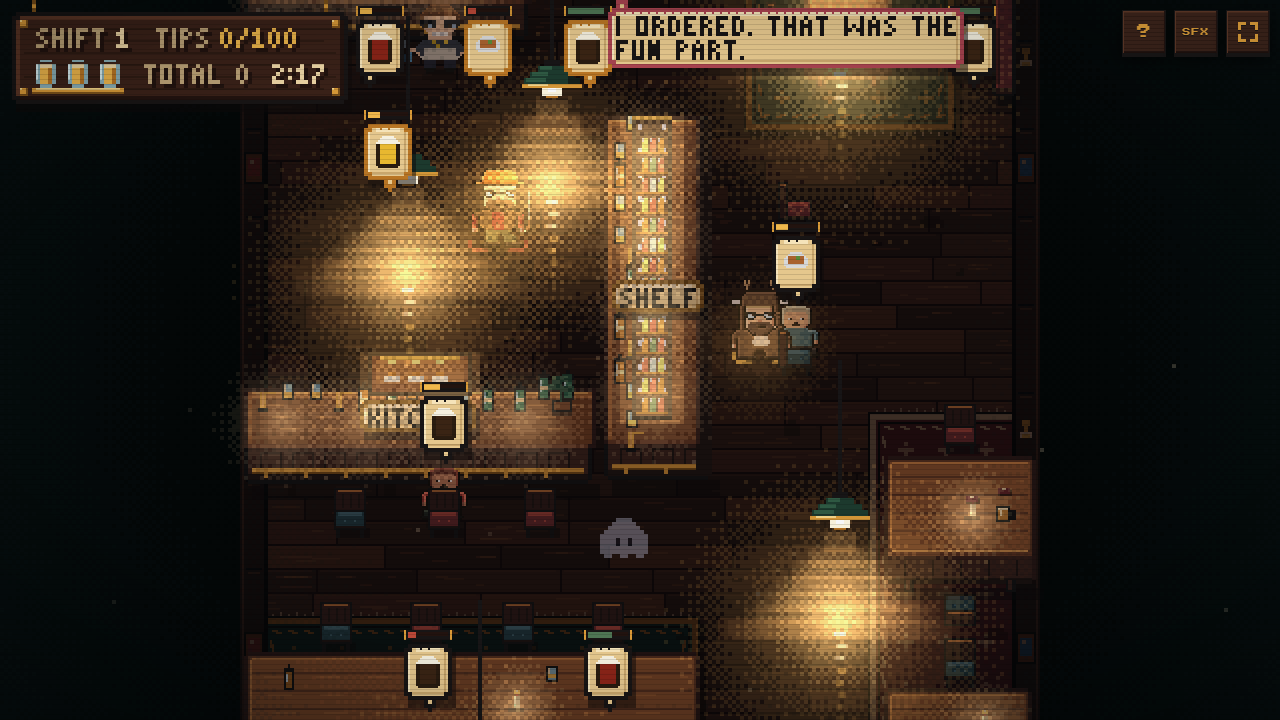
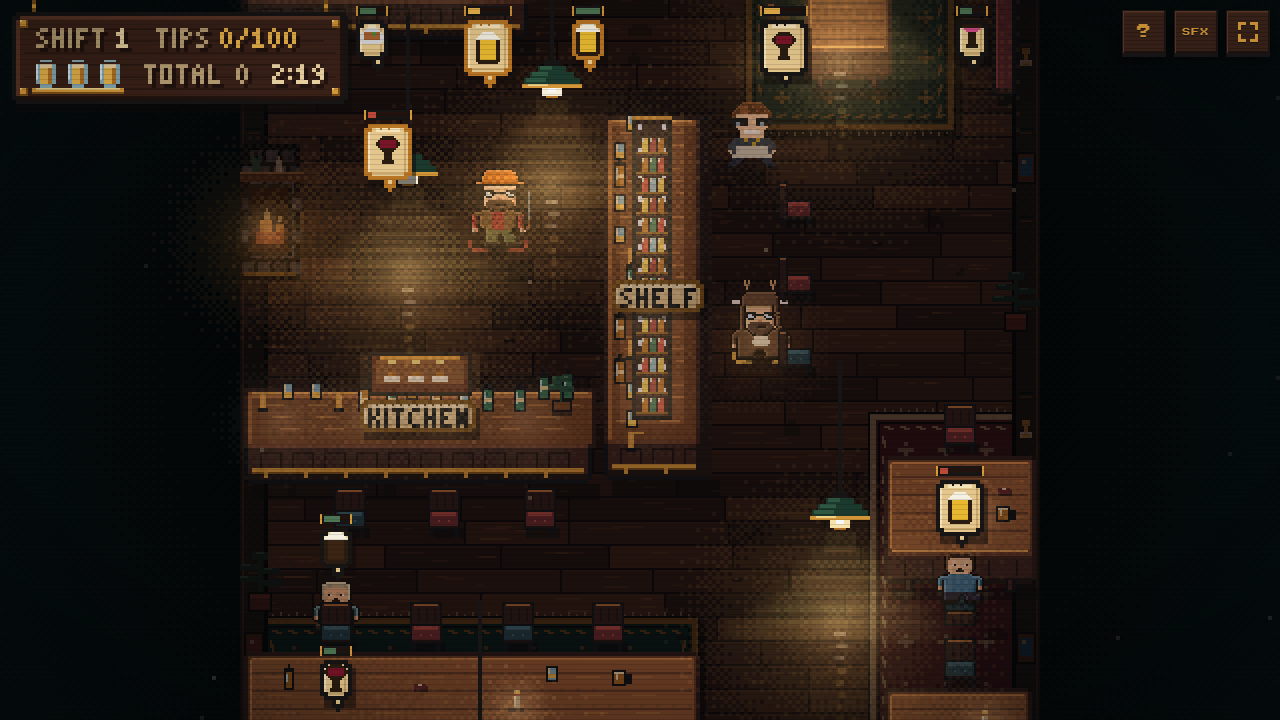
fix: tone every light layer down so the room reads as night, not glare
Claude-Session: https://claude.ai/code/session_01QtnAqeEh7ToxbAzhWcUX8e

diff --git a/game.js b/game.js
@@ -3505,8 +3505,8 @@ function drawFloorLight(camX, camY) {
     const k = lampIntensity(lamp);
     // A wide soft pool, then a hot core: the reference's lamps have a bright
     // disc directly under the shade and a long soft skirt.
-    drawGlow(glowFor(lamp.r, WARM_RGB, 0.55), lamp.x, lamp.y, k, camX, camY);
-    drawGlow(glowFor(Math.round(lamp.r * 0.45), HOT_RGB, 0.5), lamp.x, lamp.y - 2, k, camX, camY);
+    drawGlow(glowFor(lamp.r, WARM_RGB, 0.26), lamp.x, lamp.y, k, camX, camY);
+    drawGlow(glowFor(Math.round(lamp.r * 0.4), HOT_RGB, 0.16), lamp.x, lamp.y - 2, k, camX, camY);
     // Varnish reflection: a long broken streak straight under the bulb, the
     // way the boards throw a lamp back in the reference.
     const sx = Math.round((lamp.x - camX) * 2) / 2;
@@ -3515,7 +3515,7 @@ function drawFloorLight(camX, camY) {
     for (let i = 0; i < 9; i++) {
       const ry = sy + 2 + i * 3;
       const rw = Math.max(0.5, 3 - i * 0.28);
-      ctx.globalAlpha = (0.42 - i * 0.04) * k;
+      ctx.globalAlpha = (0.2 - i * 0.02) * k;
       ctx.fillStyle = i < 3 ? '#fff4d6' : PUB.amber;
       ctx.fillRect(sx - rw / 2 + ((i & 1) ? 0.5 : 0), ry, rw, i < 3 ? 1 : 1.5);
     }
@@ -3531,27 +3531,27 @@ function drawFloorLight(camX, camY) {
     for (let p = 10; p < length - 4; p += 20) {
       const gx = horizontal ? c.x + p : c.x + c.w / 2 - 2;
       const gy = horizontal ? c.y + c.h / 2 - 4 : c.y + p;
-      drawGlow(glowFor(18, HOT_RGB, 0.16), gx, gy, 0.8, camX, camY);
+      drawGlow(glowFor(18, HOT_RGB, 0.07), gx, gy, 0.8, camX, camY);
     }
   }
   for (const table of TABLES) {
     const items = DECOR.clutter.get(table) || [];
     for (const item of items) {
       if (item.kind !== 'candle') continue;
-      drawGlow(glowFor(13, HOT_RGB, 0.5), table.x + item.ox, table.y + item.oy, 0.9, camX, camY);
+      drawGlow(glowFor(11, HOT_RGB, 0.24), table.x + item.ox, table.y + item.oy, 0.9, camX, camY);
     }
   }
   for (const w of DECOR.windows) {
-    drawGlow(glowFor(26, COOL_RGB, 0.22), w.x + w.w / 2, 8, 1, camX, camY);
+    drawGlow(glowFor(26, COOL_RGB, 0.14), w.x + w.w / 2, 8, 1, camX, camY);
   }
   // The fire: an orange pool that breathes, plus a hotter core in the hearth.
   const fire = prefersReducedMotion ? 1 : 0.86 + Math.sin(gameTime * 9.3) * 0.08 + Math.sin(gameTime * 23.7) * 0.06;
-  drawGlow(glowFor(34, FIRE_RGB, 0.5), FIREPLACE.x + 8, FIREPLACE.y + 24, fire, camX, camY);
-  drawGlow(glowFor(12, HOT_RGB, 0.5), FIREPLACE.x + 7, FIREPLACE.y + 21, fire, camX, camY);
+  drawGlow(glowFor(30, FIRE_RGB, 0.26), FIREPLACE.x + 8, FIREPLACE.y + 24, fire, camX, camY);
+  drawGlow(glowFor(10, HOT_RGB, 0.24), FIREPLACE.x + 7, FIREPLACE.y + 21, fire, camX, camY);
   // Readability halos on the two leads, dim enough to be separation rather
   // than a spotlight, so they read even when a route runs between pools.
-  drawGlow(glowFor(22, WARM_RGB, 0.3), player.x, player.y - 4, 1, camX, camY);
-  if (hunterState !== 'arriving') drawGlow(glowFor(20, WARM_RGB, 0.22), hunter.x, hunter.y - 4, 1, camX, camY);
+  drawGlow(glowFor(20, WARM_RGB, 0.14), player.x, player.y - 4, 1, camX, camY);
+  if (hunterState !== 'arriving') drawGlow(glowFor(18, WARM_RGB, 0.1), hunter.x, hunter.y - 4, 1, camX, camY);
   // The door brightens while someone is coming in or going out.
   let doorBusy = 0;
   for (const c of customers) {
@@ -3559,7 +3559,7 @@ function drawFloorLight(camX, camY) {
     const d = Math.hypot(c.x - DOOR.x, c.y - DOOR.y);
     if (d < 40) doorBusy = Math.max(doorBusy, 1 - d / 40);
   }
-  drawGlow(glowFor(26, COOL_RGB, 0.2), DOOR.x, WORLD_H - 8, 0.55 + doorBusy * 0.8, camX, camY);
+  drawGlow(glowFor(26, COOL_RGB, 0.12), DOOR.x, WORLD_H - 8, 0.55 + doorBusy * 0.8, camX, camY);
 }
 
 // A soft additive rectangle (stepped edges, no gradient) for counter tops.
@@ -3581,7 +3581,7 @@ function drawGlowRect(x, y, w, h, alpha) {
 // black between lamps, while furniture and people take only the second,
 // lighter step and stay readable in the dark.
 const DARK_FLOOR = '#6a6066';
-const DARK_SCENE = '#a49a9e';
+const DARK_SCENE = '#aea3a6';
 function drawDarkness(colour) {
   ctx.globalCompositeOperation = 'multiply';
   ctx.fillStyle = colour;
@@ -3728,10 +3728,10 @@ function drawBottleGantry(x, y, topW, topH) {
   }
   // A small lamp on the gantry throws light down the bottles.
   ctx.globalCompositeOperation = 'lighter';
-  ctx.globalAlpha = 0.22;
+  ctx.globalAlpha = 0.09;
   ctx.fillStyle = 'rgb(255,200,110)';
   ctx.fillRect(gx - 4, gy - 6, 16, gh + 8);
-  ctx.globalAlpha = 0.18;
+  ctx.globalAlpha = 0.07;
   ctx.fillRect(gx - 1, gy - 4, 10, gh + 4);
   ctx.globalCompositeOperation = 'source-over';
   ctx.globalAlpha = 1;
@@ -3757,7 +3757,7 @@ function drawKitchenHatch(x, y, topW) {
     ctx.fillRect(px + 1, y - 4, 2, 1);                  // food
   }
   ctx.globalCompositeOperation = 'lighter';
-  ctx.globalAlpha = 0.25;
+  ctx.globalAlpha = 0.1;
   ctx.fillStyle = 'rgb(255,200,110)';
   ctx.fillRect(hx - 3, y - 9, 30, 14);
   ctx.globalCompositeOperation = 'source-over';
@@ -4095,7 +4095,7 @@ function drawForeground(camX, camY) {
     // Light cone from the shade to the pool: three stepped trapezoids, additive.
     ctx.globalCompositeOperation = 'lighter';
     for (let band = 0; band < 3; band++) {
-      ctx.globalAlpha = 0.045 * glow;
+      ctx.globalAlpha = 0.018 * glow;
       ctx.fillStyle = 'rgb(255,200,110)';
       const steps = 7;
       for (let i = 0; i < steps; i++) {

diff --git a/HANDOFF.md b/HANDOFF.md
@@ -30,6 +30,18 @@ contents here.
 - Python is not on this machine's PATH; use `node` for scripts and
   `npx serve`/Edge for browser checks.
 
+### 20:10 — light toned down ("relatively blinding")
+
+- Pools 0.55→0.26, hot core 0.5→0.16, streaks 0.42→0.2, cones 0.045→0.018,
+  counter glows 0.16→0.07, candles 0.5→0.24, fire 0.5→0.26, halos 0.3/0.22
+  → 0.14/0.1, gantry/hatch lamp washes ~÷2.5, `DARK_SCENE` lightened to
+  #aea3a6 so figures read without a pool. `assets/gameplay.png` refreshed.
+- User also asked whether the pixel art can be "100% accurate like the
+  reference": answered that procedural code art can't match a painted 3/4
+  concept; the route is raster assets (sprite sheets + tiles) generated or
+  commissioned to match the reference, loaded by a new asset pipeline.
+  Awaiting their choice (assets pipeline vs higher internal resolution).
+
 ### 19:55 — pushed, previewed, review page updated
 
 - Branch at `4db06bd`, in sync. Preview <https://lepub-5as0nhdru-maisoncastros-projects.vercel.app>
